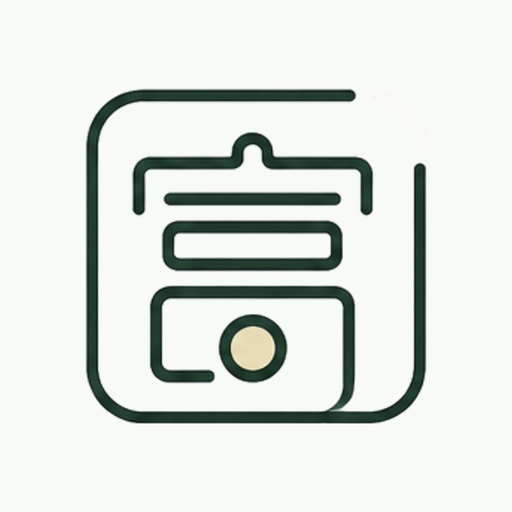
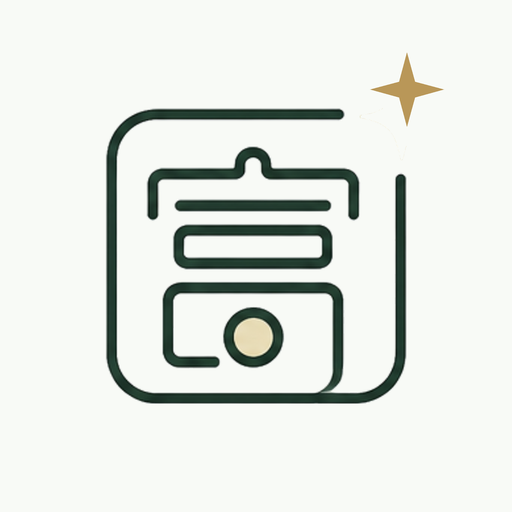
fix(PWA圖示): 富置中 + 星芒回歸(右上、安全邊距)
依用戶要求把星芒加回：以綠色富本體置中(抹星後 CC 量位置)，再以程式繪製金色四角星芒於右上角、留足夠邊距避免圓角裁切。星芒與富框在縮圖時連通不穩定，故改繪製確保位置可控。?v=5、SW v3.23.9。

Changed region(s): [[0.1562, 0.1562, 0.8438, 0.8438], [0.7188, 0.0938, 0.875, 0.25]]

diff --git a/index.html b/index.html
@@ -14,13 +14,13 @@
 
 <!-- Favicons -->
 <link rel="icon" type="image/svg+xml" href="/icons/icon.svg">
-<link rel="icon" type="image/png" sizes="192x192" href="/icons/icon-192.png?v=4">
+<link rel="icon" type="image/png" sizes="192x192" href="/icons/icon-192.png?v=5">
 
 <!-- iOS Safari「加到主畫面」-->
 <meta name="apple-mobile-web-app-capable" content="yes">
 <meta name="apple-mobile-web-app-status-bar-style" content="black-translucent">
 <meta name="apple-mobile-web-app-title" content="領富 AI">
-<link rel="apple-touch-icon" href="/icons/icon-180.png?v=4">
+<link rel="apple-touch-icon" href="/icons/icon-180.png?v=5">
 
 <!-- Open Graph（之後分享連結會有預覽圖）-->
 <meta property="og:title" content="領富 AI · 台股全市場 AI 對話">
